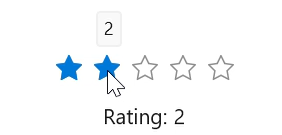
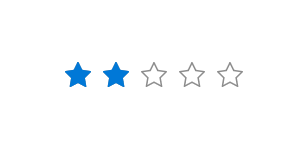
Changed the overview images.

diff --git a/winui/Rating/Getting-Started.md b/winui/Rating/Getting-Started.md
@@ -1,0 +1,8 @@
+---
+layout: post
+title: Getting Started with WinUI Rating control | Syncfusion
+description: Learn all about getting started with the Syncfusion WinUI Rating(SfRating) control, its elements, and more here.
+platform: WinUI
+control: SfRating
+documentation: ug
+---

diff --git a/winui/Rating/Precision.md b/winui/Rating/Precision.md
@@ -1,0 +1,8 @@
+---
+layout: post
+title: Precision with WinUI Rating control | Syncfusion
+description: Learn all about precision with full, half and exact in WinUI Rating control.
+platform: WinUI
+control: SfRating
+documentation: ug
+---

diff --git a/winui/Rating/Customization.md b/winui/Rating/Customization.md
@@ -1,0 +1,8 @@
+---
+layout: post
+title: Customization with WinUI Rating control | Syncfusion
+description: Learn all about customization with the Syncfusion WinUI Rating control.
+platform: WinUI
+control: SfRating
+documentation: ug
+---

diff --git a/winui/Rating/Tooltip.md b/winui/Rating/Tooltip.md
@@ -1,0 +1,8 @@
+---
+layout: post
+title: Tooltip with WinUI Rating control | Syncfusion
+description: Learn all about tooltip format and support in WinUI rating control.
+platform: WinUI
+control: SfRating
+documentation: ug
+---
